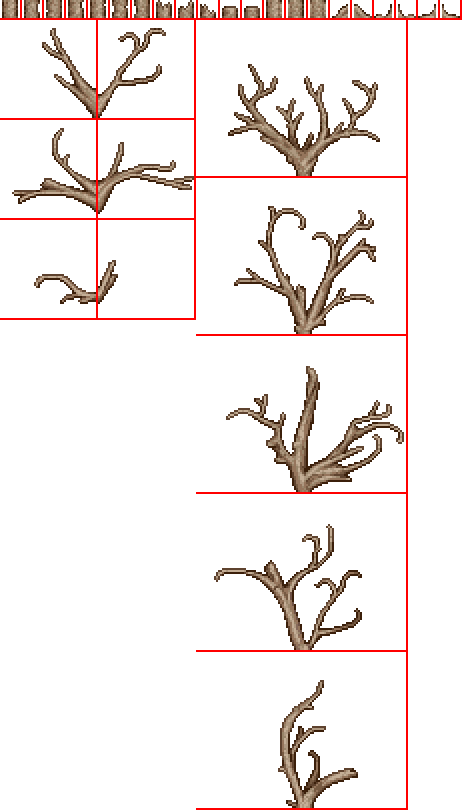
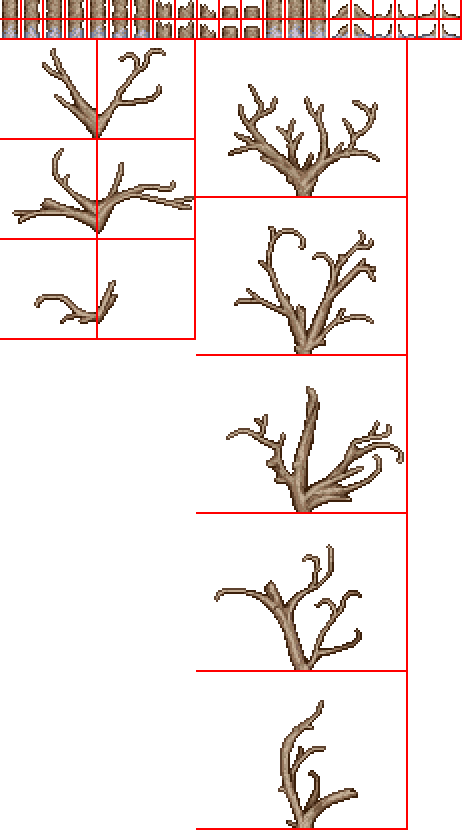
Minor fix

Changed region(s): [[0.0, 0.0, 1.0, 0.6173], [0.4242, 0.6481, 0.8788, 0.9568], [0.697, 0.9568, 0.7576, 0.9877]]

diff --git a/Content/SaltFlats/Tiles/DeadTree.cs b/Content/SaltFlats/Tiles/DeadTree.cs
@@ -75,8 +75,27 @@ public class DeadTree : CustomTree
 		return base.TileFrame(i, j, ref resetFrame, ref noBreak);
 	}
 
+	public override void DrawTreeBody(int i, int j, SpriteBatch spriteBatch)
+	{
+		if (!TileExtensions.GetVisualInfo(i, j, out Color color, out Texture2D texture))
+			return;
+
+		Tile tile = Main.tile[i, j];
+		Rectangle source = new(tile.TileFrameX, 0, FrameSize - 2, FrameSize - 4);
+
+		if (Framing.GetTileSafely(i, j + 1).TileType == ModContent.TileType<SaltBlockDull>())
+			source.Y += 20; //Salt frames
+
+		Vector2 position = new Vector2(i, j) * 16 - Main.screenPosition + TileExtensions.TileOffset + TreeExtensions.GetPalmTreeOffset(i, j);
+
+		spriteBatch.Draw(texture, position, source, color, 0, Vector2.Zero, 1, SpriteEffects.None, 0);
+		return;
+	}
+
 	public override void DrawTreeFoliage(int i, int j, SpriteBatch spriteBatch)
 	{
+		const int frameHeight = 40; //The total height of all trunk frames
+
 		if (!TileExtensions.GetVisualInfo(i, j, out Color color, out Texture2D texture))
 			return;
 
@@ -86,9 +105,9 @@ public class DeadTree : CustomTree
 
 		if (FindSegment(i, j) is SegmentType.LeafyTop) //Draw treetops
 		{
-			Point size = new(210, 156);
+			Point size = new(210, 156); //The size of a single frame, exclusing padding
 			int frameY = tileFrameX % 5;
-			var source = new Rectangle(196, 20 + (size.Y + 2) * frameY, size.X, size.Y);
+			var source = new Rectangle(196, frameHeight + (size.Y + 2) * frameY, size.X, size.Y);
 			var origin = new Vector2(source.Width / 2, source.Height);
 
 			spriteBatch.Draw(texture, position + new Vector2(7, 2), source, color, rotation, origin, 1, SpriteEffects.None, 0);
@@ -98,8 +117,8 @@ public class DeadTree : CustomTree
 			int frameX = Random(i, j, 0, 2);
 			int frameY = tileFrameX % 3;
 
-			Point size = new(96, 98);
-			var source = new Rectangle((size.X + 2) * frameX, 20 + (size.Y + 2) * frameY, size.X, size.Y);
+			Point size = new(96, 98);  //The size of a single frame, exclusing padding
+			var source = new Rectangle((size.X + 2) * frameX, frameHeight + (size.Y + 2) * frameY, size.X, size.Y);
 			var origin = new Vector2((frameX == 0) ? source.Width : 0, 80);
 
 			position += new Vector2(4 * ((frameX == 0) ? -1 : 1), 8); //Directional offset

diff --git a/Common/TileCommon/PresetTiles/Furniture/CandleTile.cs b/Common/TileCommon/PresetTiles/Furniture/CandleTile.cs
@@ -85,13 +85,13 @@ public abstract class CandleTile : FurnitureTile
 				float shakeY = Utils.RandomInt(ref randSeed, -10, 1) * 0.35f;
 				var offset = new Vector2(shakeX, shakeY);
 
-				var position = new Vector2(i, j) * 16 - Main.screenPosition + offset + TileExtensions.TileOffset;
+				var position = new Vector2(i, j) * 16 - Main.screenPosition + offset + TileExtensions.TileOffset + new Vector2(data.DrawXOffset, data.DrawYOffset);
 				spriteBatch.Draw(texture, position, source, new Color(100, 100, 100, 0), 0, Vector2.Zero, 1, SpriteEffects.None, 0f);
 			}
 		}
 		else
 		{
-			var position = new Vector2(i, j) * 16 - Main.screenPosition + TileExtensions.TileOffset;
+			var position = new Vector2(i, j) * 16 - Main.screenPosition + TileExtensions.TileOffset + new Vector2(data.DrawXOffset, data.DrawYOffset);
 			spriteBatch.Draw(texture, position, source, Color.White, 0, Vector2.Zero, 1, SpriteEffects.None, 0);
 		}
 	}
